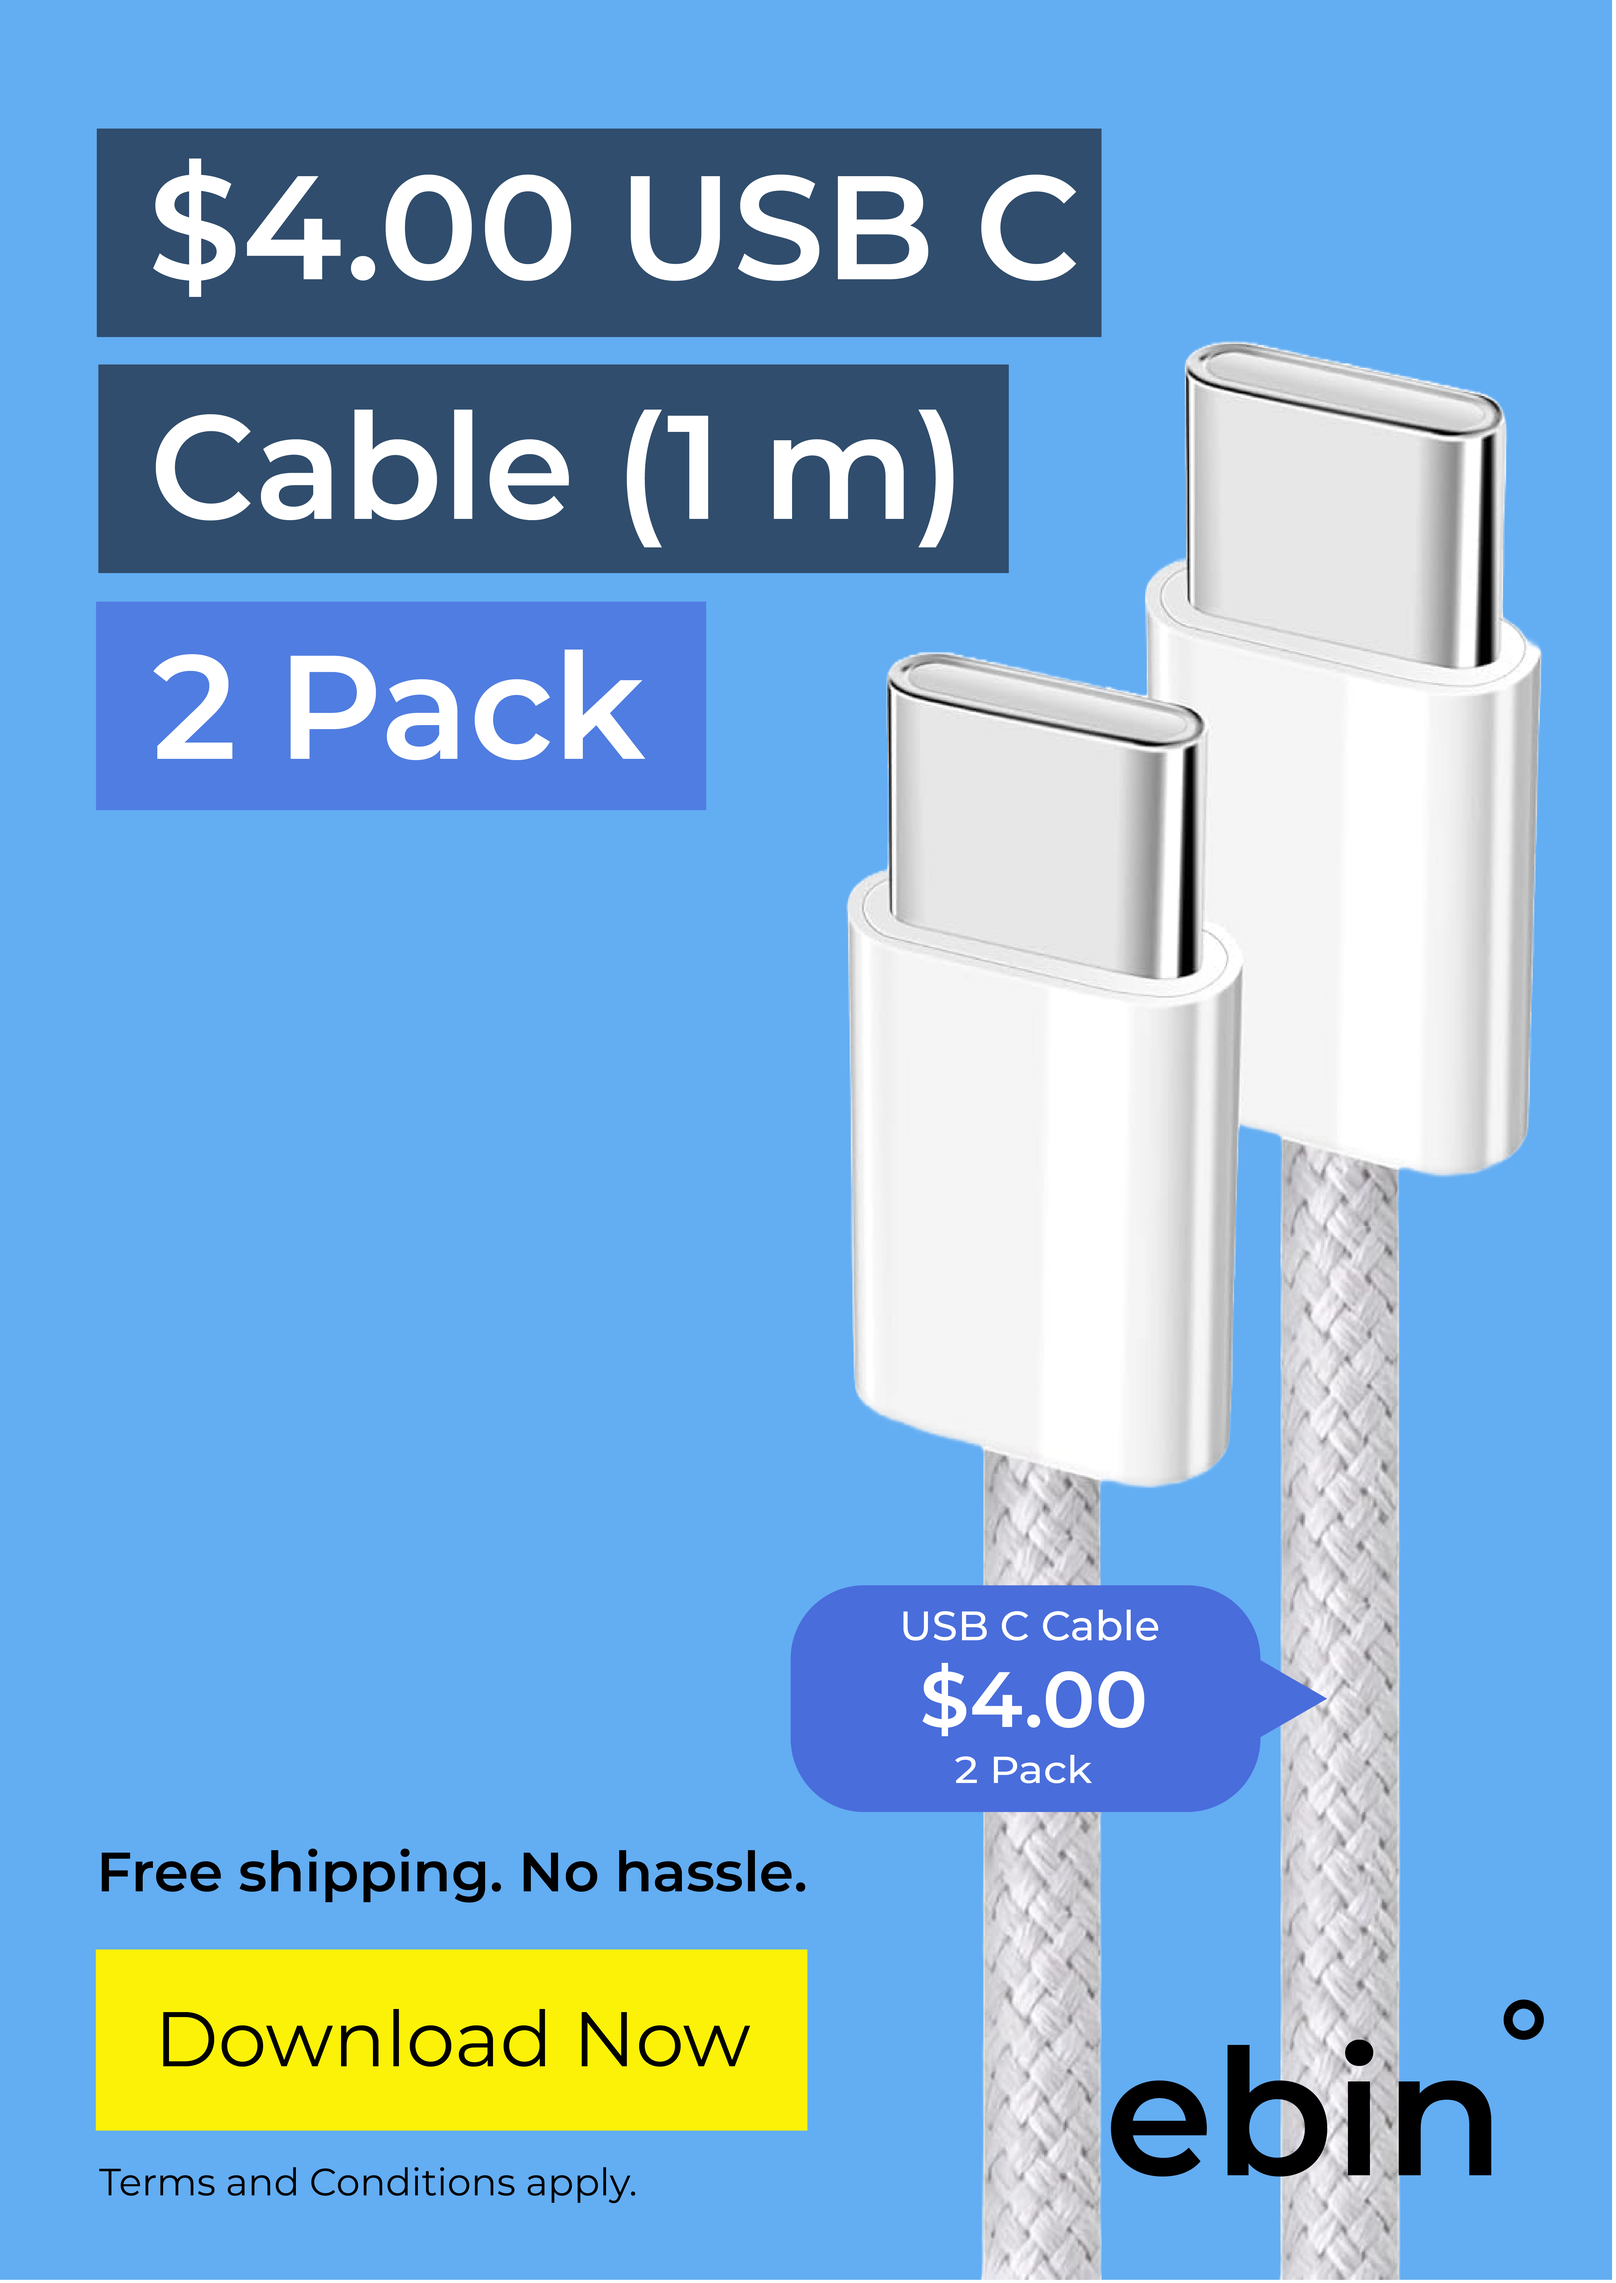
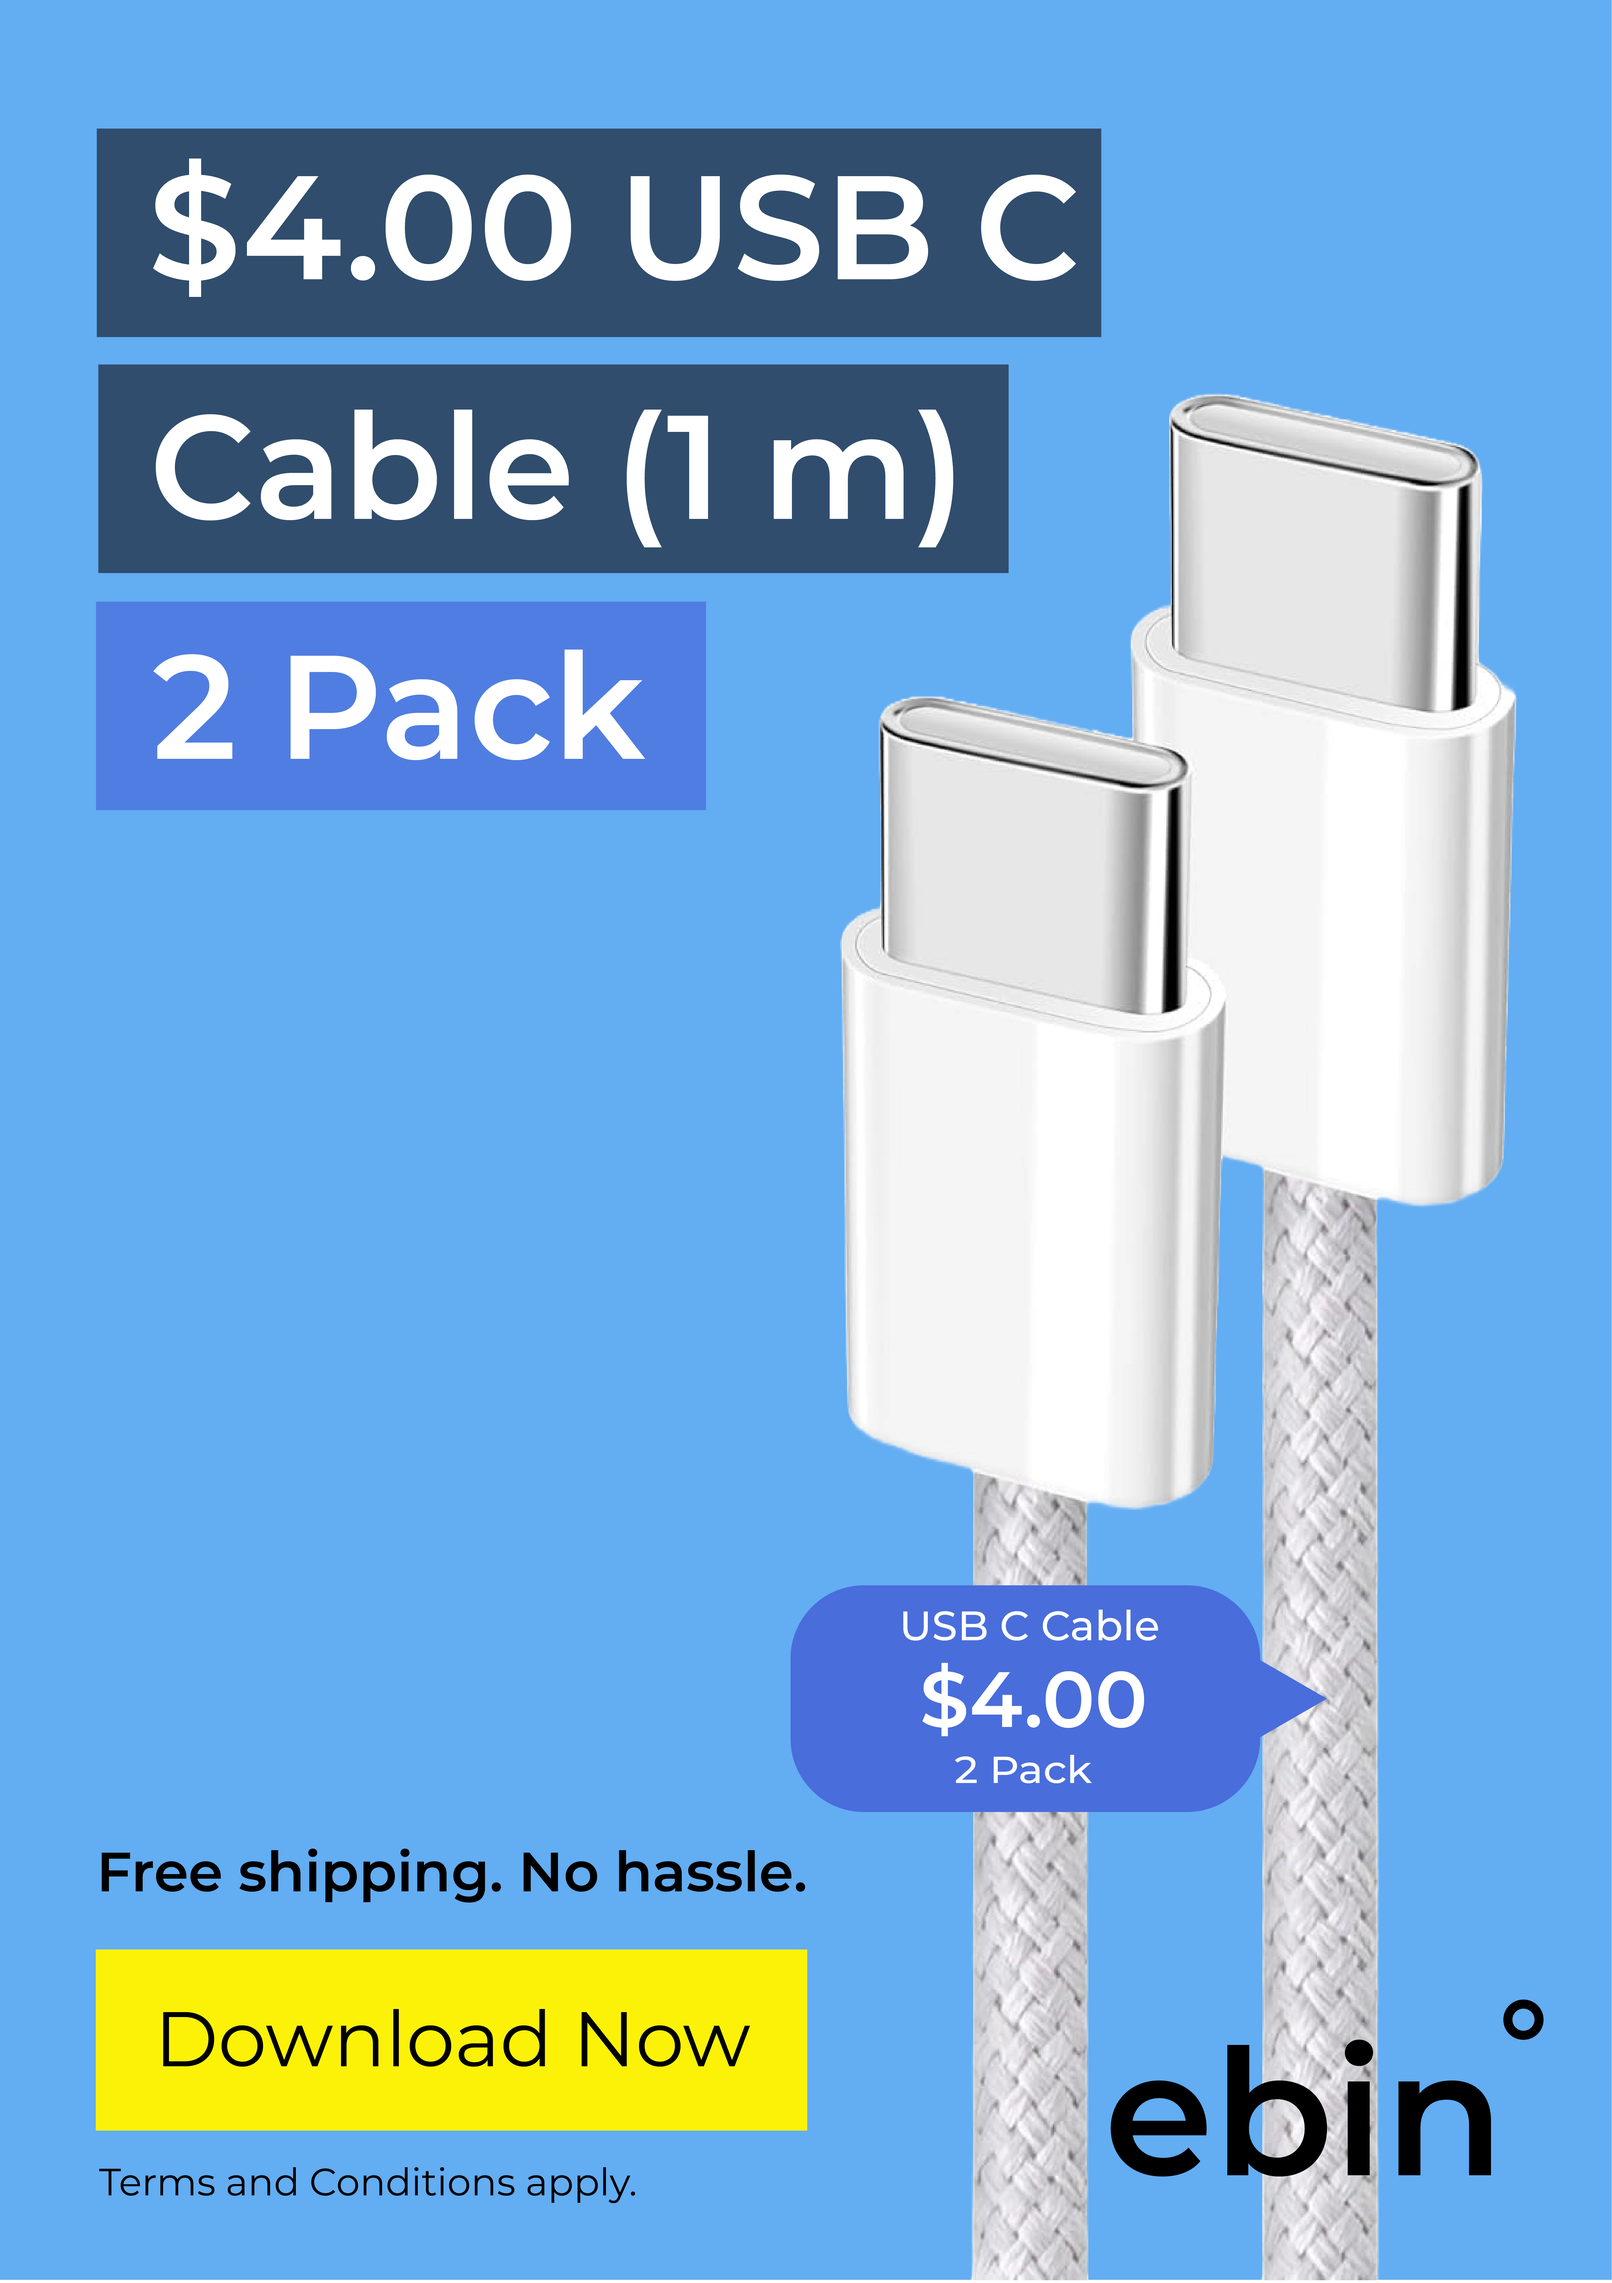
Add files via upload

diff --git a/styles.css b/styles.css
@@ -1169,7 +1169,7 @@ img.image1_rounded_corners {
   flex-direction: column;
   justify-content: start;
   color: #ffffff;
-  background-image: url('ebin - Card 4.png'); /* Replace 'your-image-url.jpg' with the URL of your image */
+  background-image: url('ebin - Card 2 (Updated).png'); /* Replace 'your-image-url.jpg' with the URL of your image */
   background-size: cover; /* Cover the entire element with the background image */
   background-position: center; /* Center the background image */
   box-shadow: 0 4px 10px rgba(0, 0, 0, 0.1);
